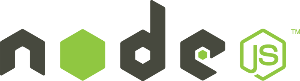
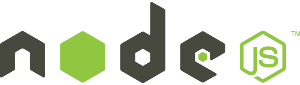
Resize MEAN images

diff --git a/public/css/styles.less b/public/css/styles.less
@@ -55,7 +55,7 @@ html, body {
     }
 
     .mean-img {
-        height: 70px;
+        height: 85px;
         margin-bottom: 5px;
     }
 
